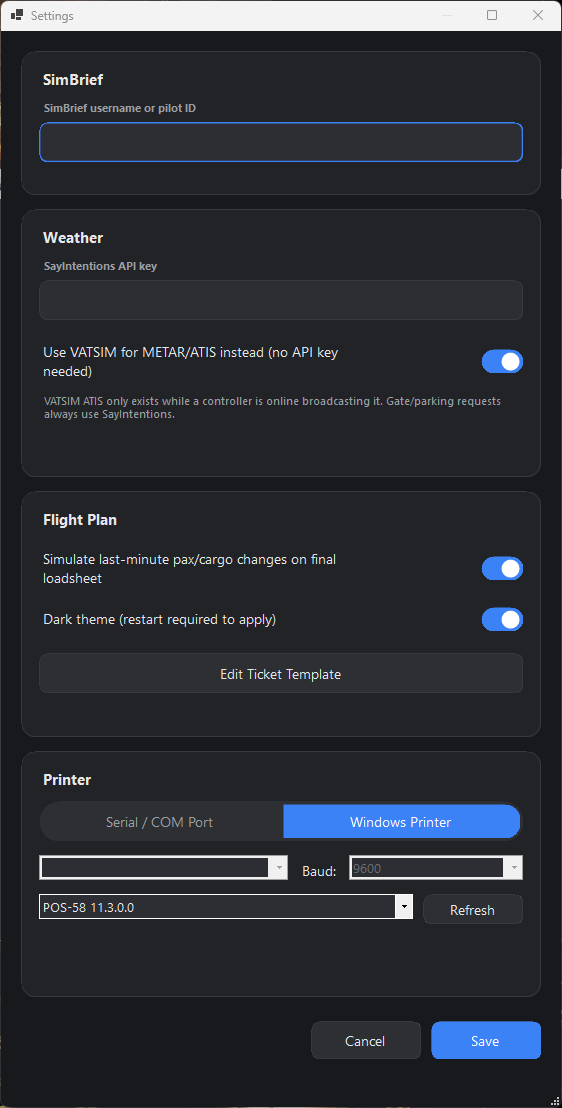
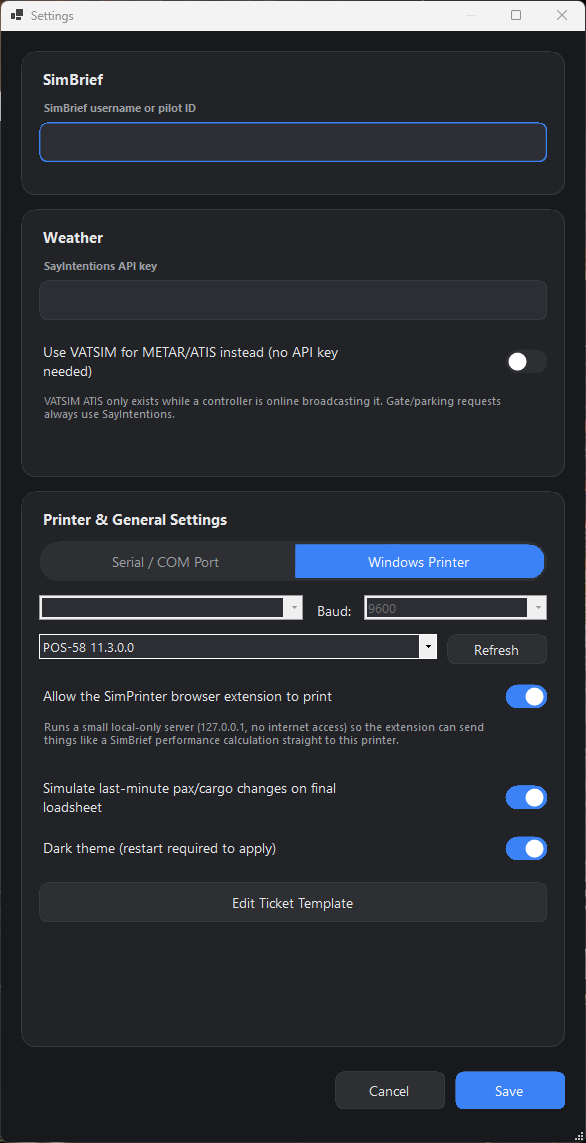
Document the browser extension and refresh screenshots
README now covers the Firefox extension end to end - what it does,
how it works, and how to install the signed build. Screenshots updated
for the merged Settings card and the new print button on SimBrief.

diff --git a/README.md b/README.md
@@ -26,7 +26,8 @@ There's a countdown in the footer to your scheduled off-block time, driven by Si
 reading the sim's actual Zulu clock rather than your PC's clock - matters if you fly with
 time acceleration. And a "Print Text" box for pasting in anything else, like a takeoff
 performance report copied out of SimBrief's calculator, since that data isn't exposed
-through any API.
+through any API - or skip the copy/paste entirely with the [Firefox extension](#firefox-extension-simbrief-performance-print)
+below, which adds a Print button right on SimBrief's own page.
 
 Output goes either to a thermal printer over serial/COM, or to whatever's already
 installed as a Windows printer. Dark mode's in there, and the window resizes down
@@ -74,6 +75,42 @@ characters come out garbled, it's probably a code page mismatch - output's CP437
 default, which is the common one, but that's a one-line change in `EscPosBuilder.cs` if
 your printer wants something else.
 
+## Firefox extension: SimBrief Performance Print
+
+SimBrief's takeoff/landing performance calculator doesn't expose its results through any
+API, so short of copy-pasting into SimPrinter's Print Text box, there's no way to get a
+V-speed strip onto paper automatically. This extension closes that gap: it adds a **🖨
+Print** button directly onto SimBrief's calculator - both the per-flight popup and the
+standalone [Performance & Tools](https://dispatch.simbrief.com/tools) page - and one click
+sends the result straight to your printer.
+
+<p>
+  <img src="assets/screenshots/extension-print-button.png" width="420" alt="SimPrinter print button on SimBrief's Takeoff Performance calculator">
+</p>
+
+It works by having SimPrinter run a small server on `127.0.0.1` (localhost only - nothing
+outside your own machine can reach it, and it's off by default). The extension reads the
+calculation text already sitting on the page and posts it there; SimPrinter reflows it to
+fit your printer's width and prints it, the same way Print Text does.
+
+### Installing it
+
+1. In SimPrinter, open **Settings -> Printer & General Settings** and turn on **"Allow the
+   SimPrinter browser extension to print"**, then Save.
+2. Grab `simprinter-performance-print-signed.xpi` from [Releases](../../releases).
+3. In Firefox, open `about:addons`, click the gear icon in the top right, choose
+   **"Install Add-on From File..."**, and pick the `.xpi` you downloaded. (Dragging the
+   file into a Firefox window works too.)
+
+That's it - no developer mode, no "temporary" reinstall-on-every-restart needed. It's
+signed by Mozilla (self-distributed, not published to the store), so it installs and stays
+installed like any other extension.
+
+Once it's in, open a Takeoff or Landing Performance calculation on SimBrief and the Print
+button shows up next to "Information" (or next to the Formatted/Raw Output toggle on the
+standalone tools page). Source is in [`browser-extension/`](browser-extension/) if you'd
+rather build and sign your own copy - see that folder's README for the details.
+
 ## Where things live
 
 ```
@@ -91,9 +128,11 @@ src/SimPrinter/
   EscPosBuilder.cs             Builds ESC/POS byte sequences and ticket layouts
   TicketTemplate.cs            User-editable flight-plan ticket template
   PrinterService.cs            Sends bytes via COM port or the Windows print spooler
+  LocalPrintServer.cs           Localhost server the browser extension prints through
   Preferences.cs               Settings persistence (%APPDATA%\SimPrinter)
   lib/SimConnect/               Vendored SimConnect client (see below)
 installer/                    WiX installer source (build-installer.ps1 builds the MSI)
+browser-extension/            Firefox extension - SimBrief Performance Print (see above)
 assets/                       Logo and other non-code assets
 ```
 
